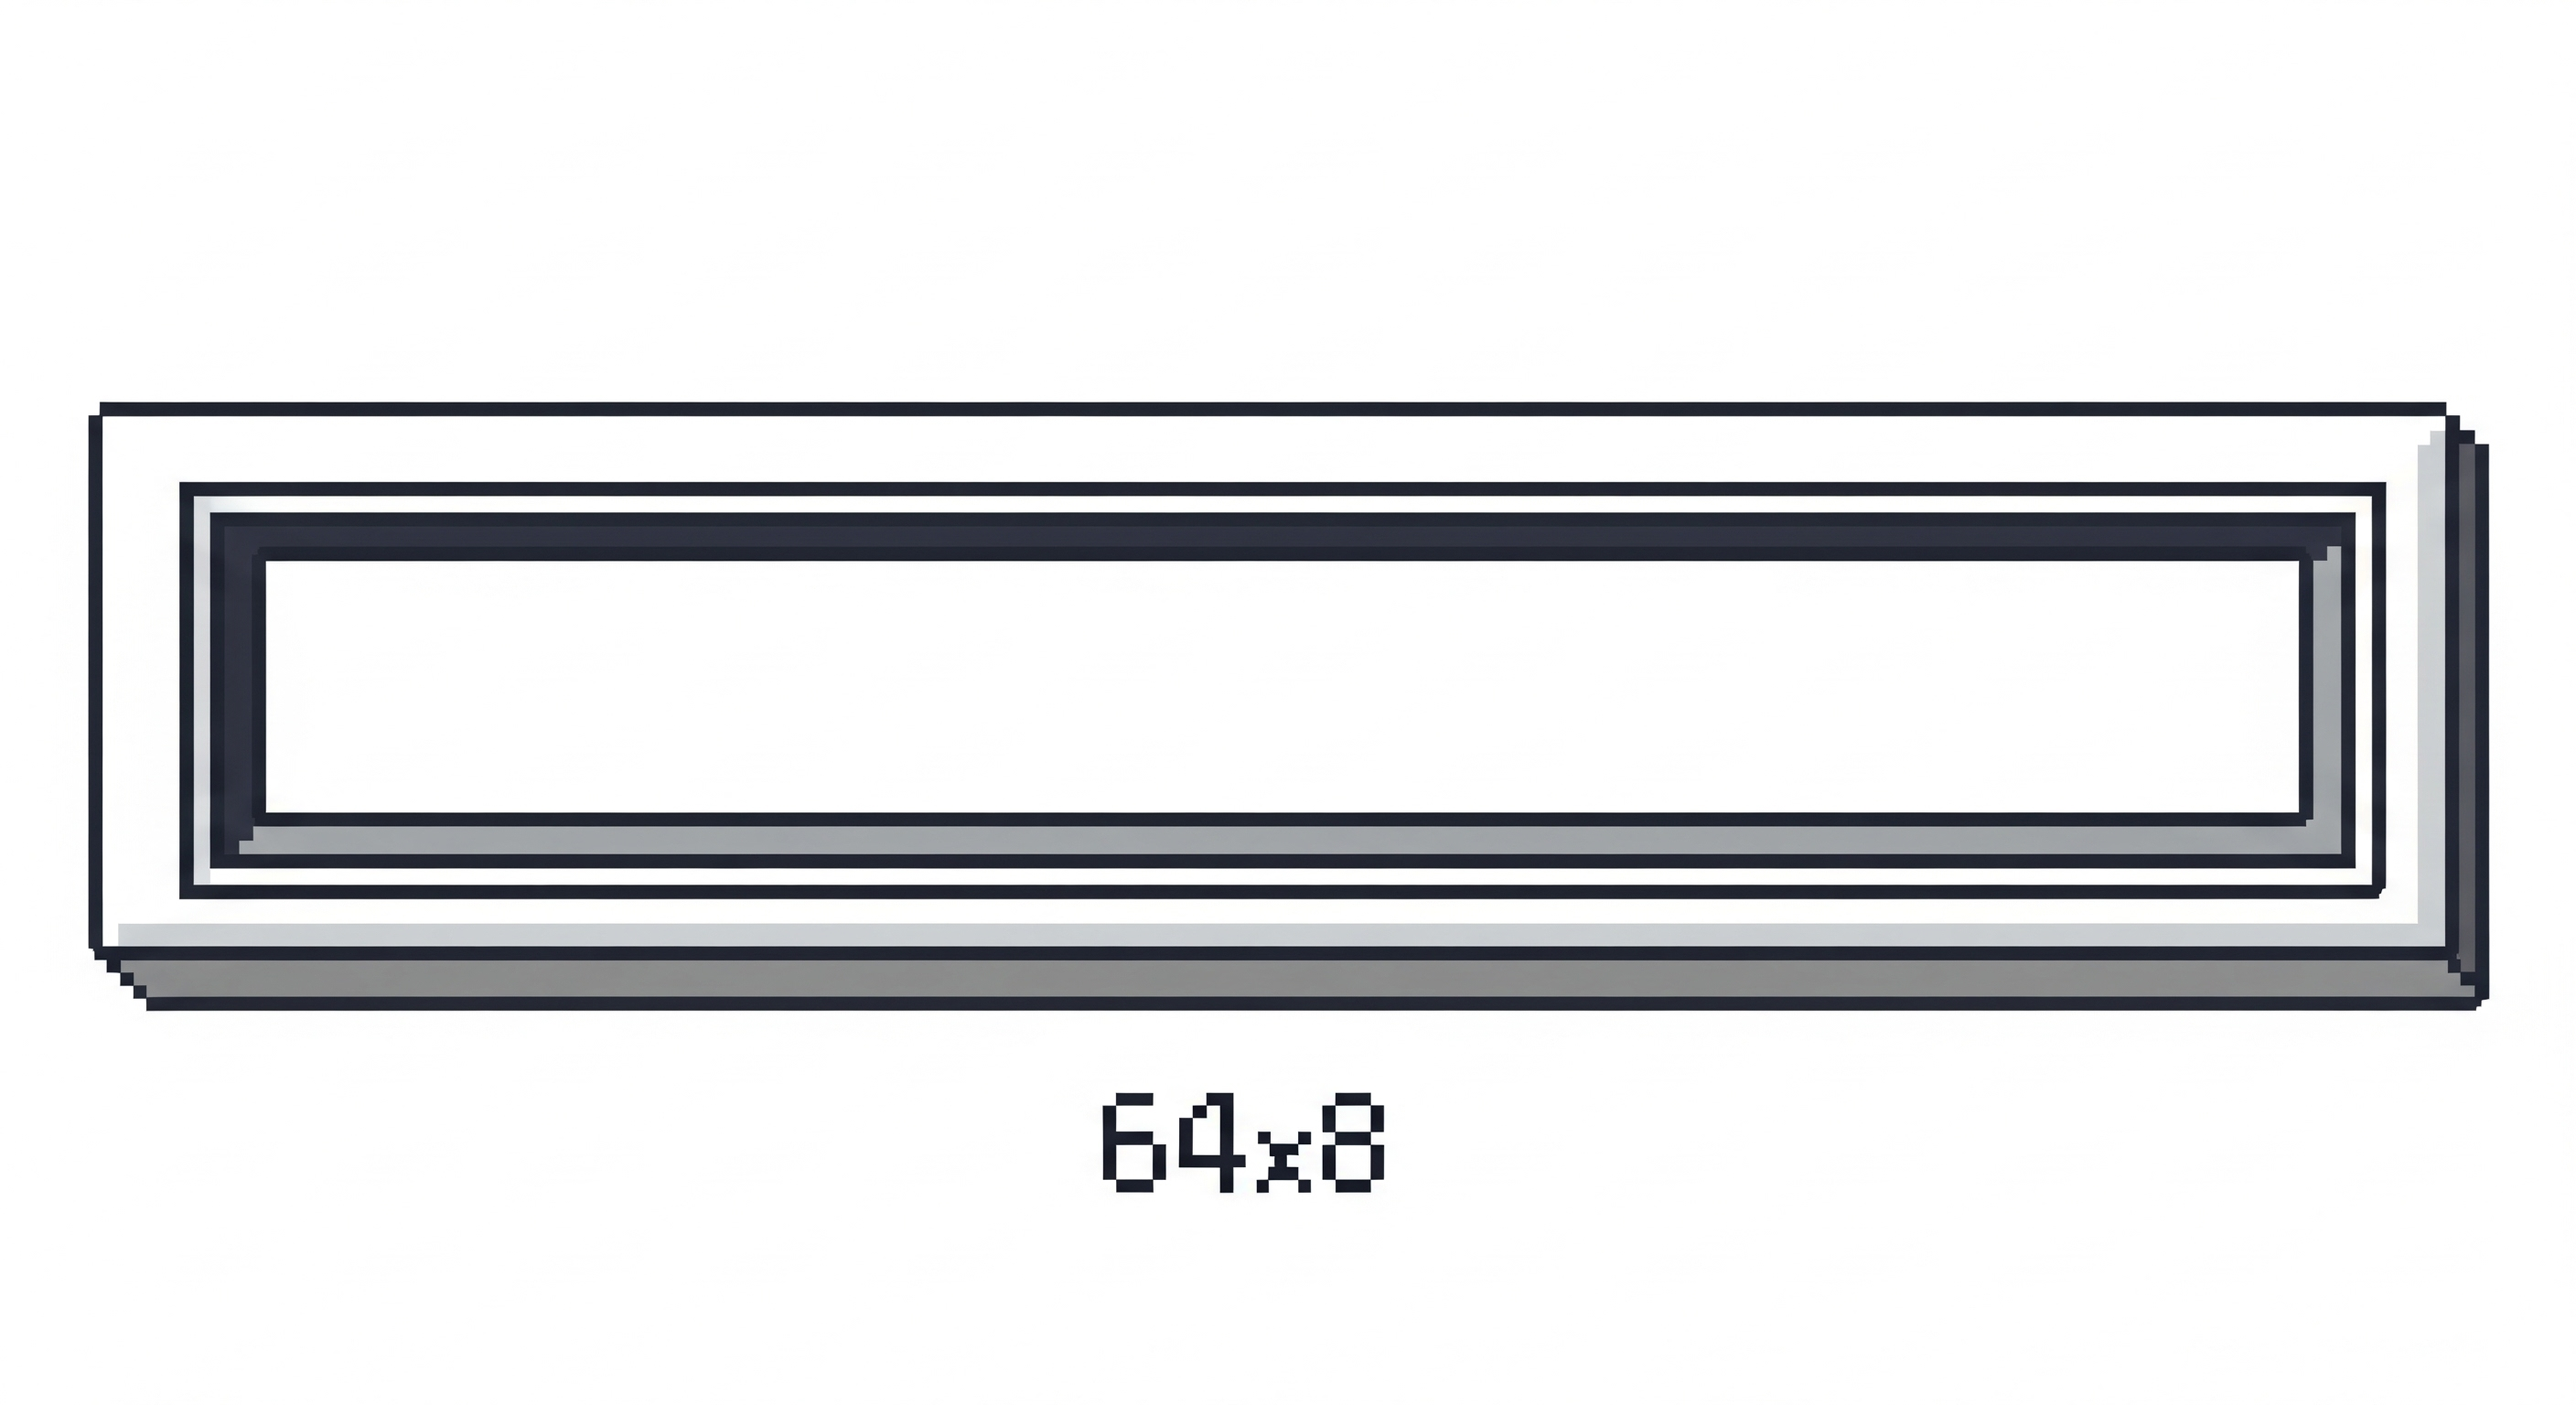
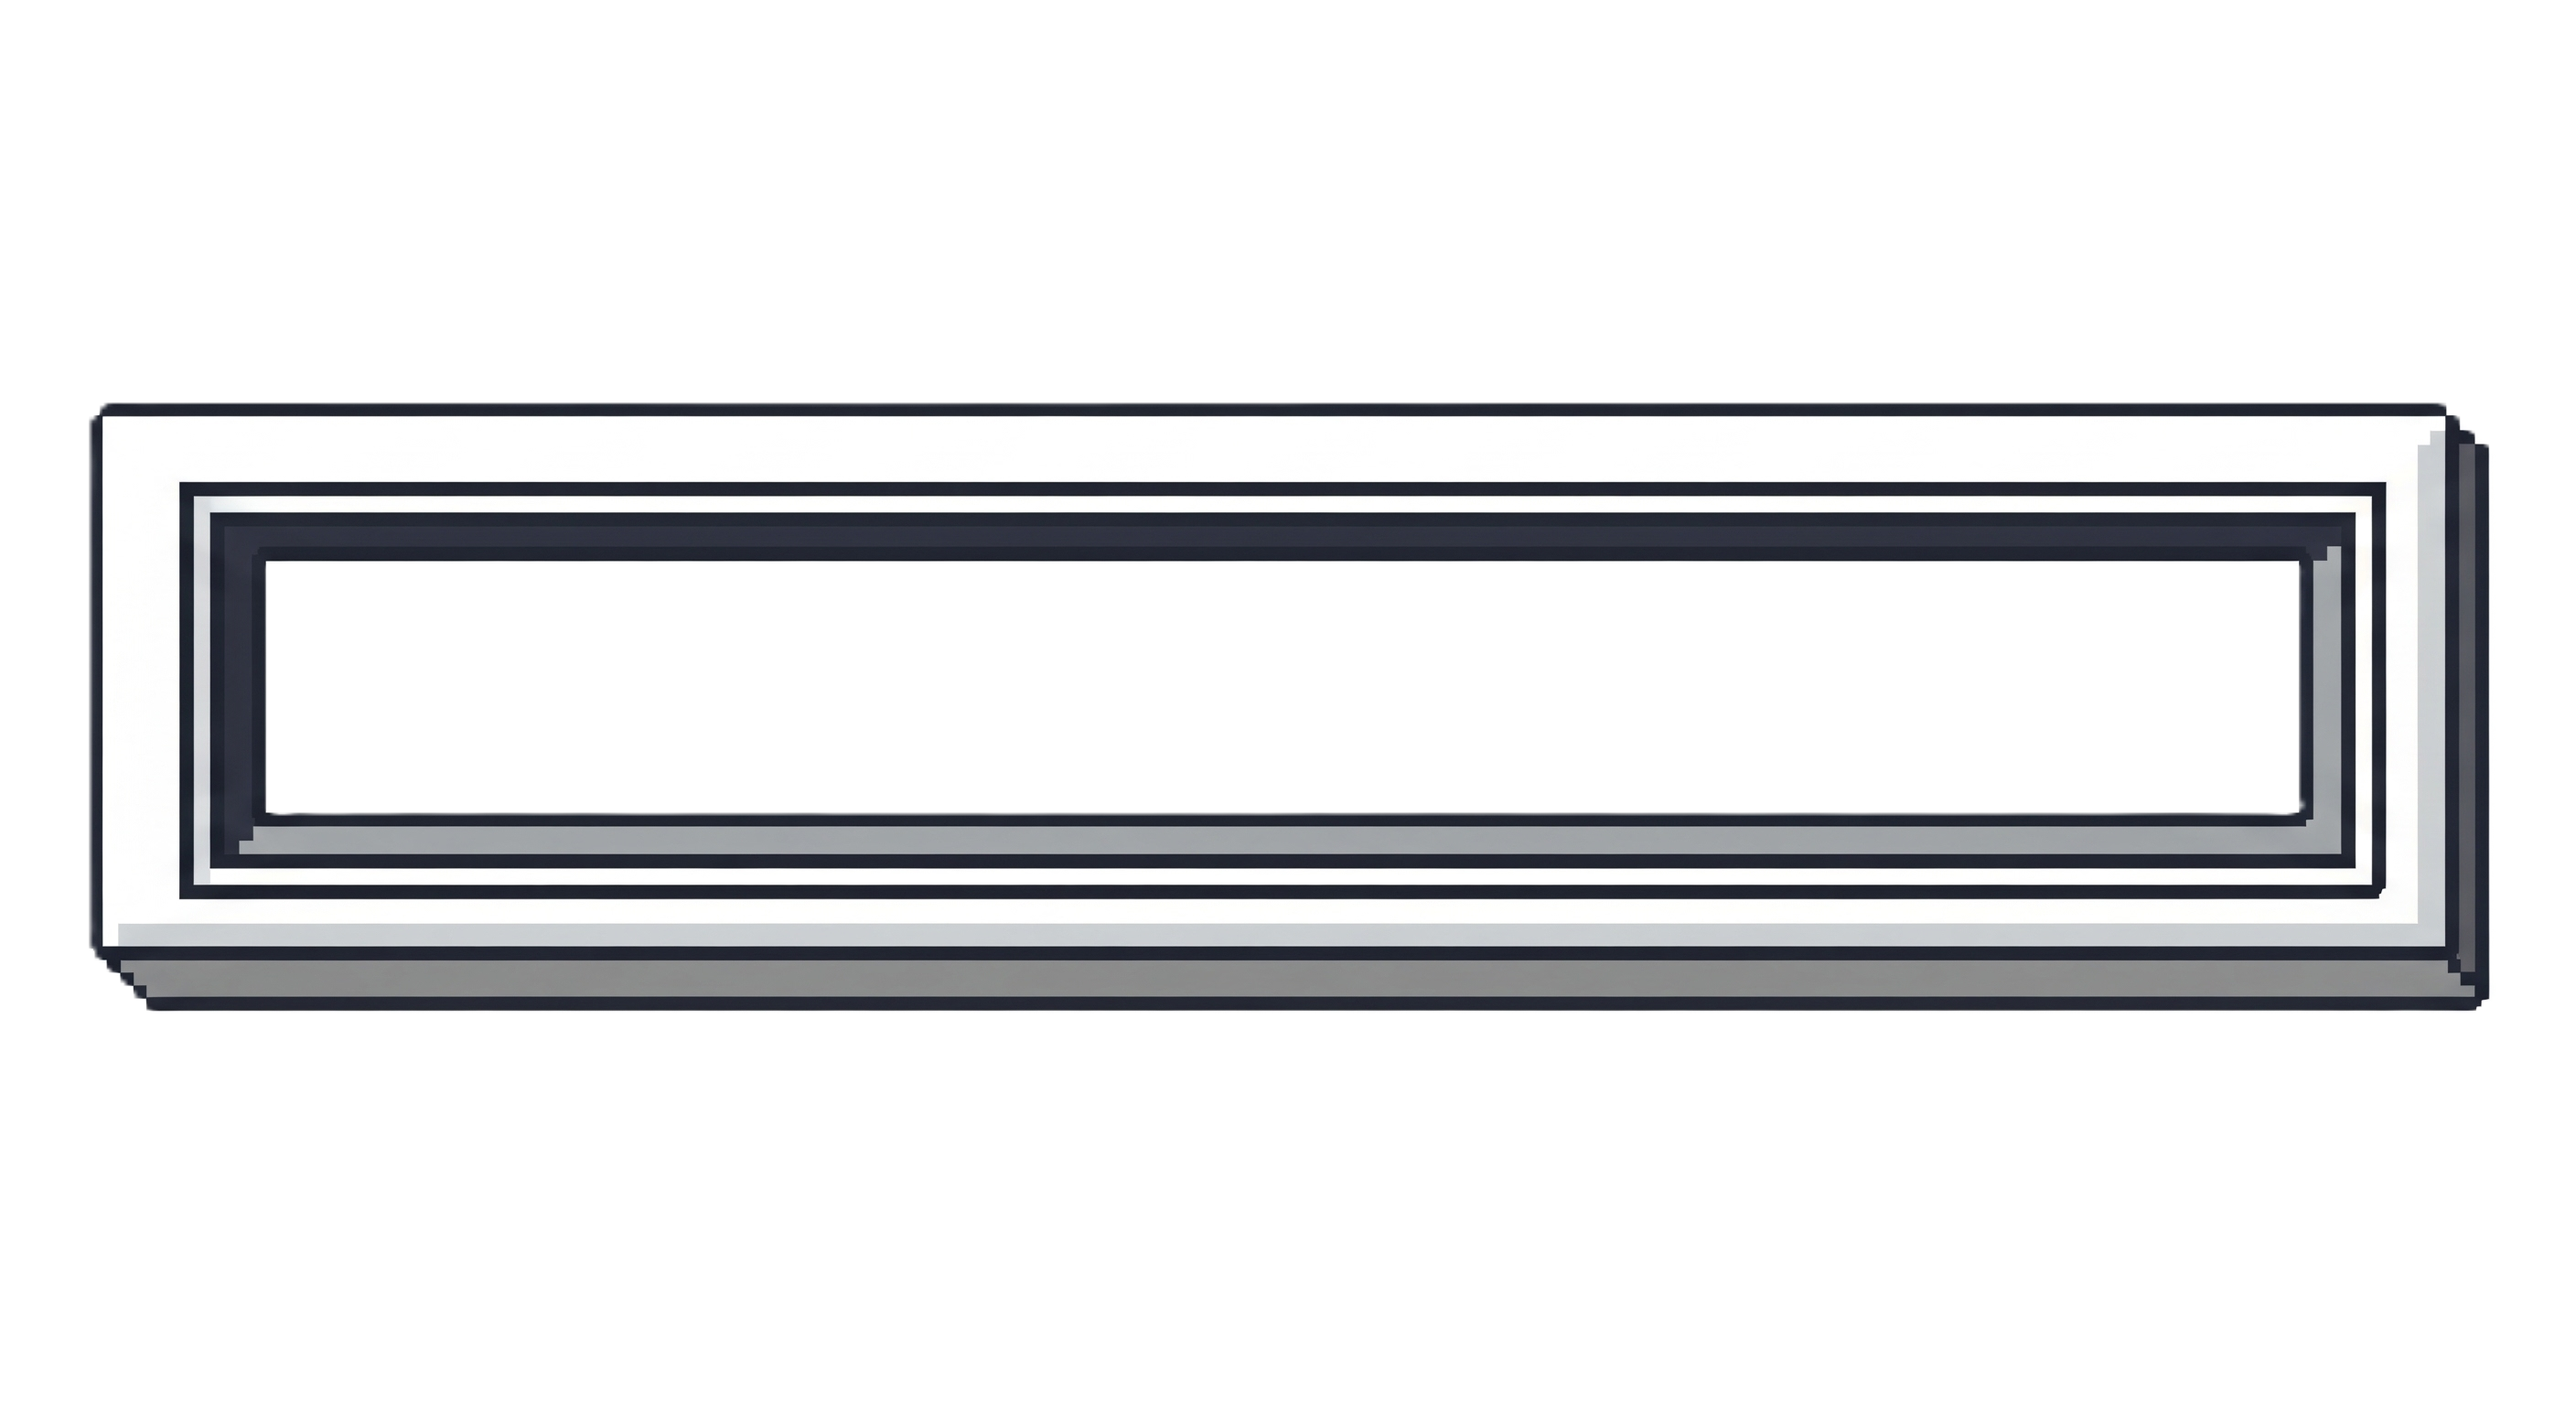
feat: health bar frame added to player

Changed region(s): [[0.4062, 0.7812, 0.5625, 0.8438], [0.0312, 0.2812, 0.0625, 0.3125]]

diff --git a/client/canvas.js b/client/canvas.js
@@ -16,6 +16,9 @@ const sprites = {
     player_thrust: undefined,
     player_bump_on_boundary: undefined,
   },
+  ui: {
+    health_bar_frame: undefined,
+  },
 };
 
 class Player {
@@ -33,6 +36,9 @@ class Player {
     current: 100,
     max: 100,
     isAlive: true,
+    previousHealth: 100,
+    healthChangeTimer: 0,
+    healthBarDisplayTime: 180, // frames to display health bar
   };
   score = 0;
   shooting = {
@@ -53,6 +59,10 @@ class Player {
     sprites.player.onload = () => {
       this.draw();
     };
+
+    // Load health bar frame sprite
+    sprites.ui.health_bar_frame = new Image();
+    sprites.ui.health_bar_frame.src = './assets/ui/health_bar_frame.png';
 
     // Initialize particle system
     this.thrustParticles = new ThrustParticleSystem();

diff --git a/client/particles.js b/client/particles.js
@@ -64,7 +64,7 @@ class ThrustParticleSystem {
       const velocityY = -Math.cos(angle) * speed;
 
       const life = Math.random() * 20 + 10; // 10-30 frames
-      const colors = ['#00ffff', '#00ff88', '#ffff00', '#44ff44'];
+      const colors = ['#80ffdb', '#72efdd', '#4ea8de', '#7400b8', '#5e60ce'];
       const color = colors[Math.floor(Math.random() * colors.length)];
       const size = Math.random() * 3 + 1;
 
